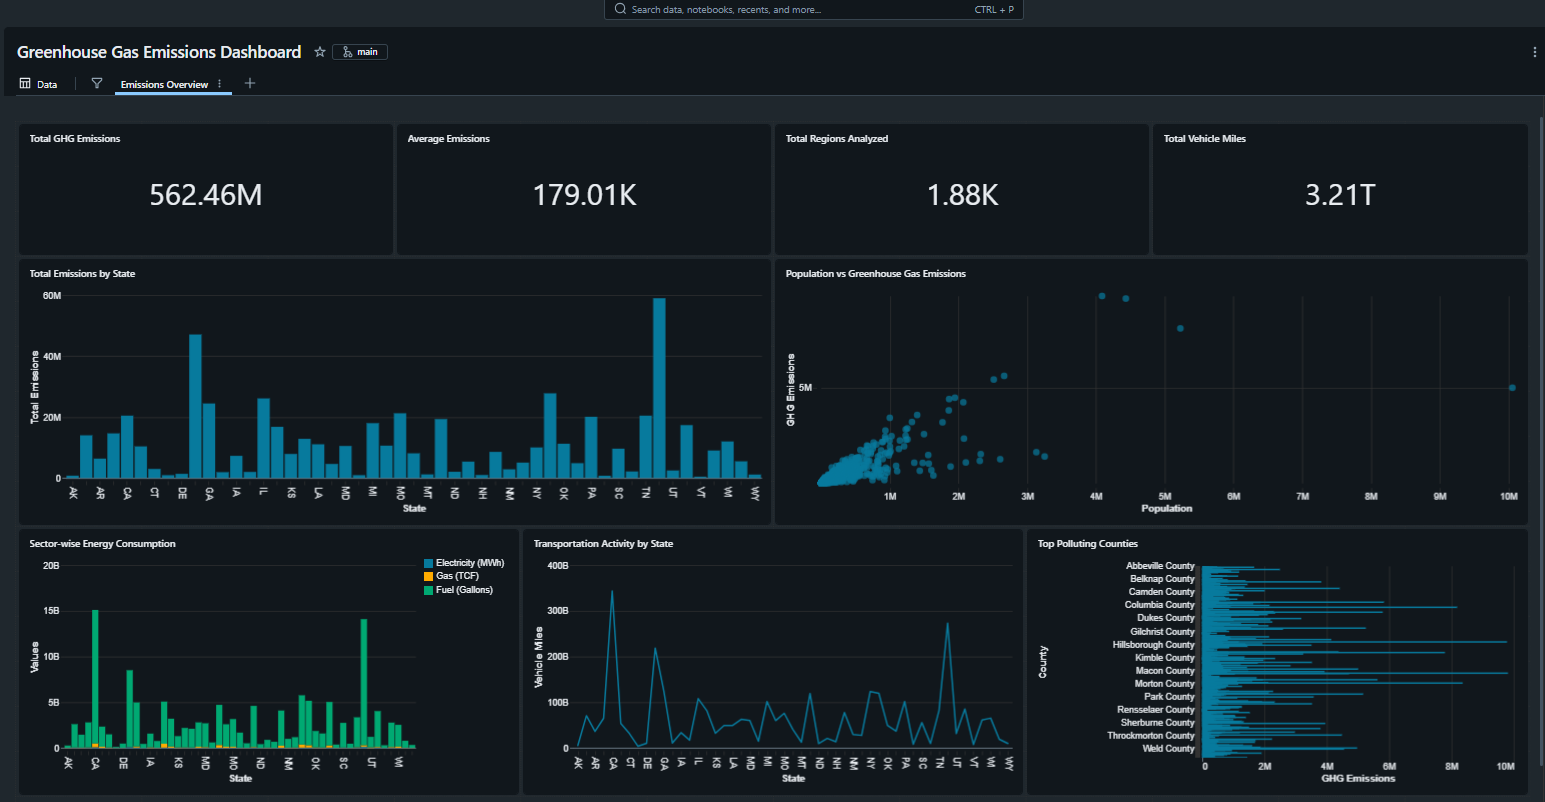
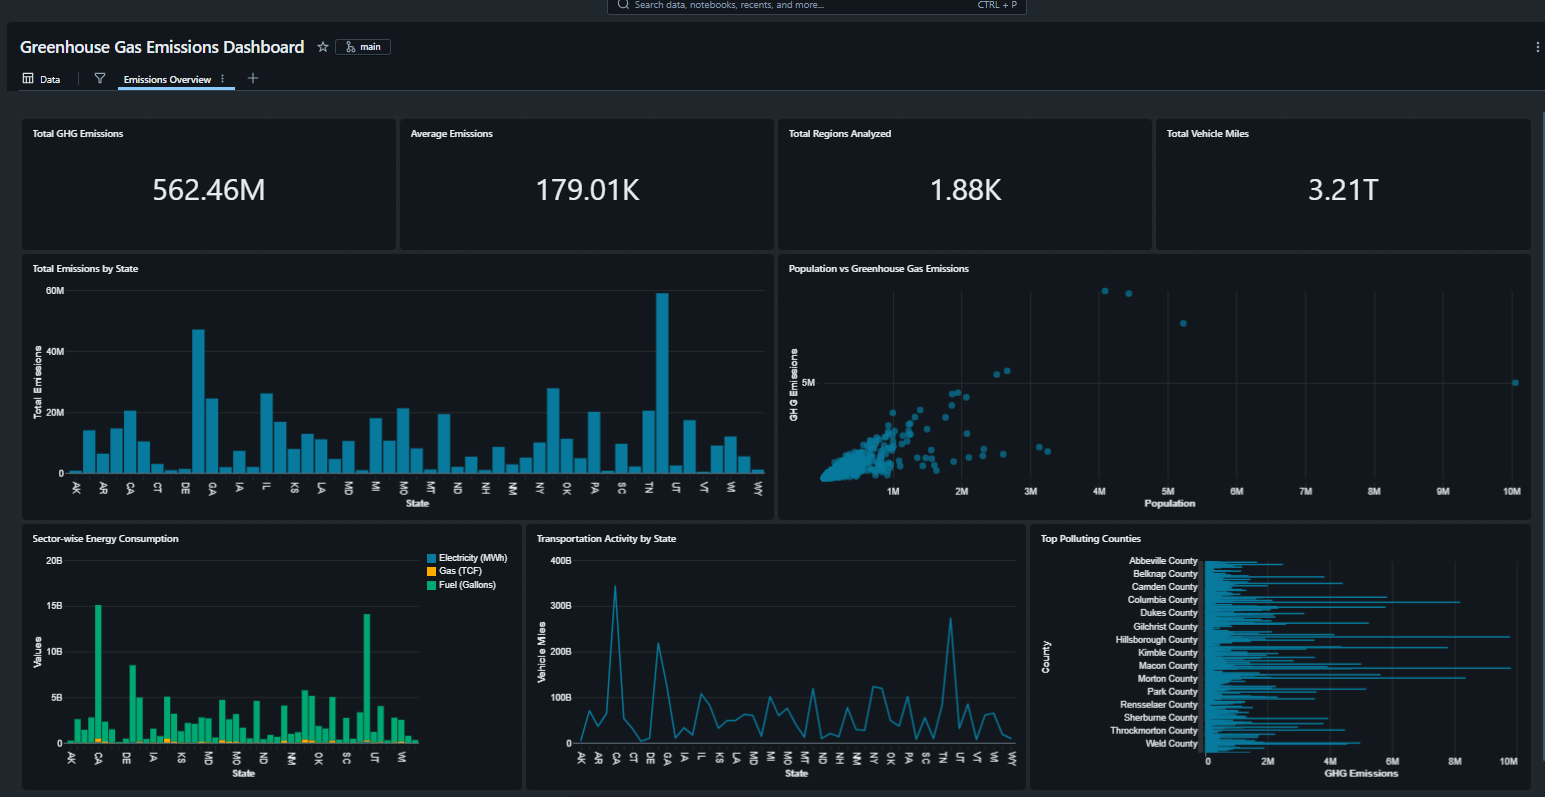
Added Portfolio website

diff --git a/html css/index.html b/html css/index.html
@@ -40,7 +40,7 @@
 
             <div class="buttons">
 
-                <a href="https://github.com/Karannsingh22/Emissions"
+                <a href="https://github.com/YOUR_USERNAME/YOUR_REPO"
                     target="_blank"
                     class="btn">
                     View GitHub
